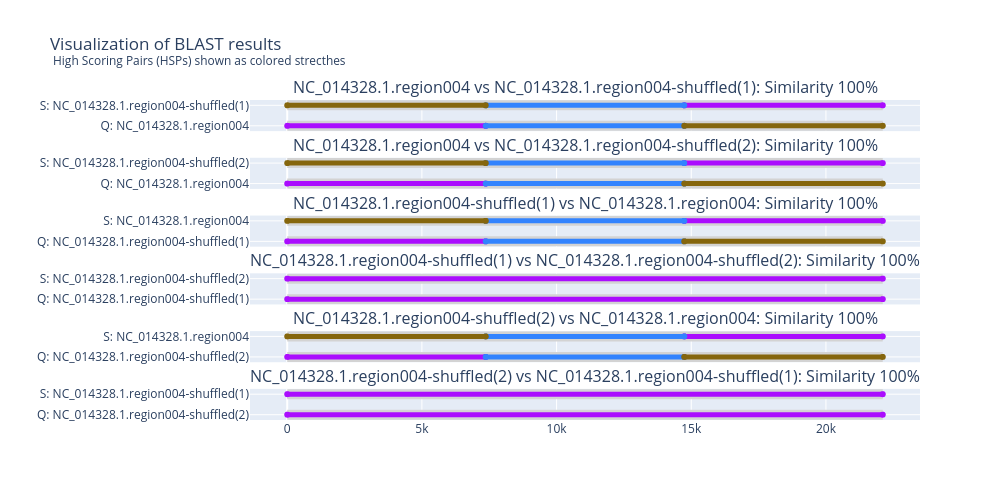
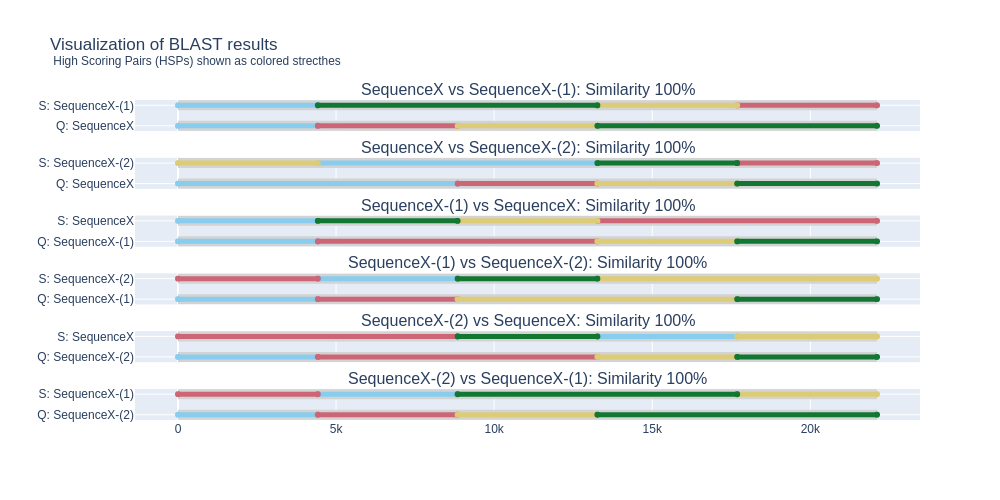
Updated colors and general visuals of 07_ana, minor adjustments

Changed region(s): [[0.031, 0.06, 0.93, 0.87]]

diff --git a/pipeline/data_simulation.py b/pipeline/data_simulation.py
@@ -101,19 +101,19 @@ job_id_map.update(
 ## Analysis part
 
 # add demo of blast:
-def prep_blast_demo(n_shuffled_sequences=2, n_chunks=3) -> Path:
+def prep_blast_demo(n_shuffled_sequences=2, n_chunks=5) -> Path:
     data_dir = Path("data/simulated_data/blast_pairwise/demo")
     data_dir.mkdir(parents=True, exist_ok=True)
     record = next(SeqIO.parse("data/simulated_data/antismash/input_genomes/combined_bgc.fa", "fasta"))
     sequence = record.seq.__str__()
-    name = record.name
+    name = "SequenceX"
 
     chunk_size = int((len(sequence)/n_chunks) + 0.5) #ceil
     sequence_chunks = [sequence[i*chunk_size:(i+1)*chunk_size] for i in range(n_chunks)]
     shuffled_seqs = ["".join(np.random.choice(sequence_chunks, size=n_chunks, replace=False)) for i in range(n_shuffled_sequences)]
 
     outfile = data_dir / 'demo.fa'
-    entries = [f">{name}\n{sequence}"]+[f">{name}-shuffled({i+1})\n{seq}" for i, seq in enumerate(shuffled_seqs)]
+    entries = [f">{name}\n{sequence}"]+[f">{name}-({i+1})\n{seq}" for i, seq in enumerate(shuffled_seqs)]
     outfile.write_text("\n".join(entries))
     return data_dir, outfile
 blast_demo_dir, blast_demo_file = prep_blast_demo()
@@ -135,8 +135,8 @@ python analysis/07_blast_visualisation.py\
  --blast data/simulated_data/blast_pairwise/demo/combined_blast_results.tsv\
  --similarity-table data/simulated_data/blast_pairwise/demo/pairwise_table_symmetric.tsv\
  -o results/07_blast_visualisation/demo\
- -ph 800\
- -pw 500
+ -ph 500\
+ -pw 1000
 """,
     success_file='results/07_blast_visualisation/demo/.success',
     name='analysis_07_demo',
@@ -171,7 +171,9 @@ job_id_map['analysis_07'] = AddToQue(
 python analysis/07_blast_visualisation.py\
  --fasta data/simulated_data/antismash/input_genomes/combined_bgc.fa\
  --blast data/simulated_data/blast_pairwise/input_bgc/combined_blast_results.tsv\
- --similarity-table data/simulated_data/blast_pairwise/input_bgc/pairwise_table_symmetric.tsv
+ --similarity-table data/simulated_data/blast_pairwise/input_bgc/pairwise_table_symmetric.tsv\
+ -ph 1800\
+ -pw 1000
 """,
     success_file='results/07_blast_visualisation/.success',
     name='analysis_07',

diff --git a/analysis/07_blast_visualisation.py b/analysis/07_blast_visualisation.py
@@ -51,12 +51,12 @@ def generate_hsp_scatters(group) -> List[go.Scatter]:
             go.Scatter(
                 x=[row.qstart, row.qend],
                 y=[q, q],
-                line = {'color': plotly.colors.qualitative.Alphabet[row.Index], 'dash': 'solid', "width":5}
+                line = {'color': plotly.colors.qualitative.Safe[row.Index], 'dash': 'solid', "width":5}
             ),
             go.Scatter(
                 x=[row.sstart, row.send],
                 y=[s, s],
-                line = {'color': plotly.colors.qualitative.Alphabet[row.Index], 'dash': 'solid', "width":5}
+                line = {'color': plotly.colors.qualitative.Safe[row.Index], 'dash': 'solid', "width":5}
             )
         ])
     return scatters

diff --git a/pipeline/pipeline_base.py b/pipeline/pipeline_base.py
@@ -106,7 +106,7 @@ jobs_failed: ({len(self.jobs_failed)})
                 if self.job_map[job_id].is_running:
                     return {'color':'dodgerblue3', 'style':'filled'}
                 else:
-                    return {'color':'dodgerblue3', 'style':'striped'}
+                    return {'color':'deepskyblue:dodgerblue3', 'style':'filled'}
             elif job_id in self.jobs_complete:
                 return {'color':'darkolivegreen4', 'style':'filled'}
             elif job_id in self.jobs_failed:
